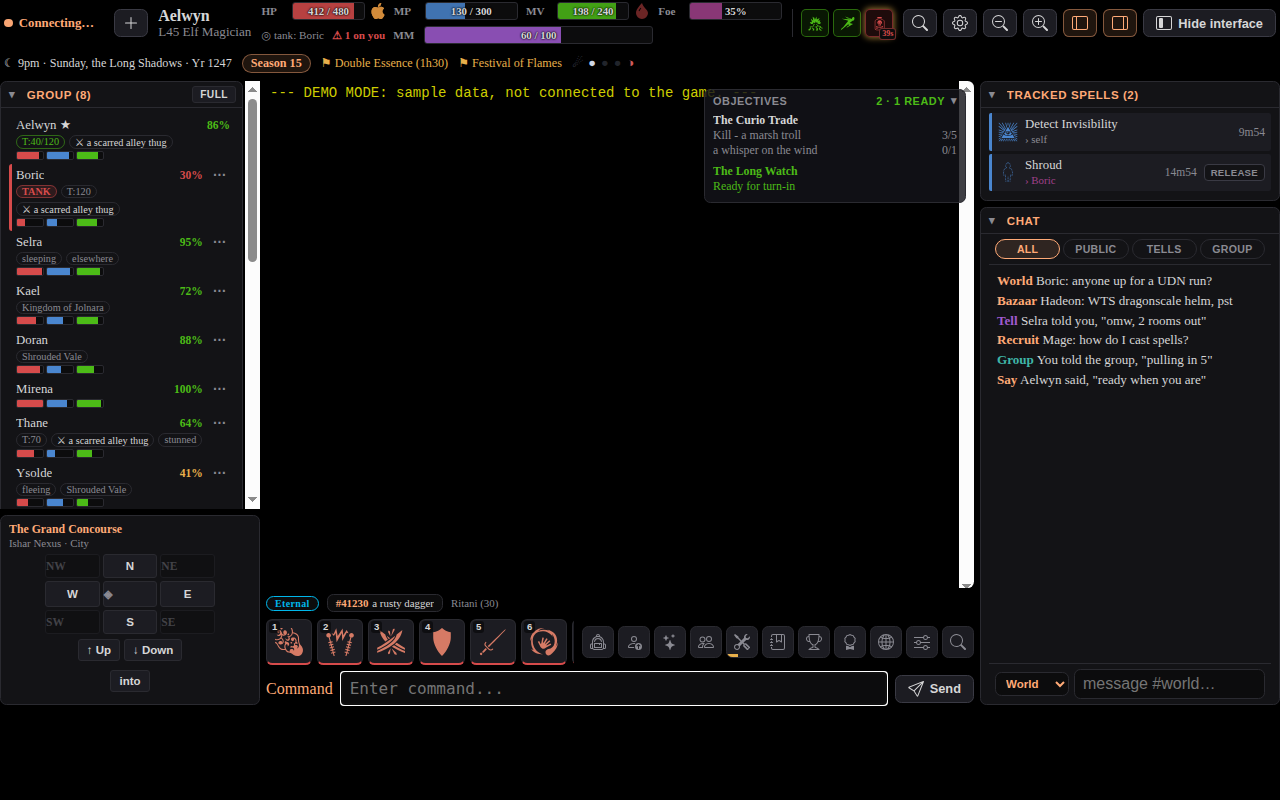
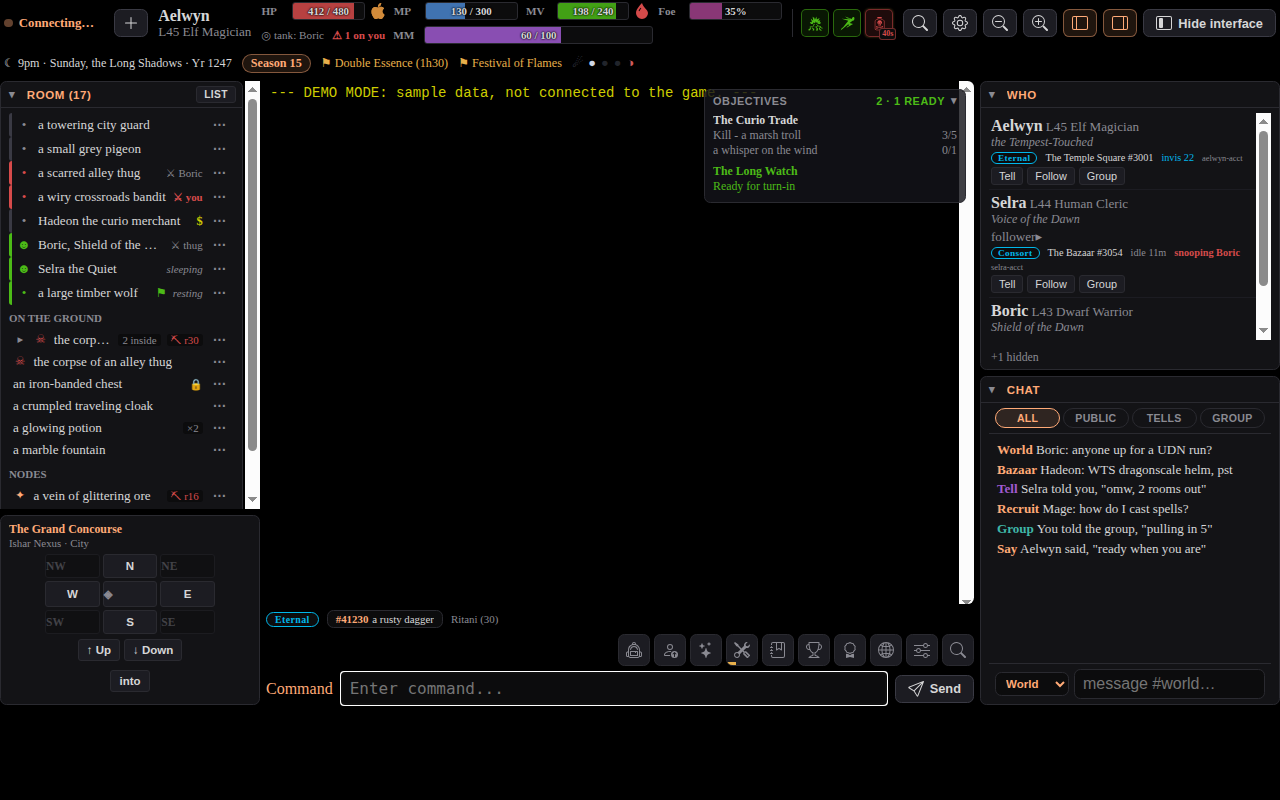
Admin profile v2: profile the persistent tier
Living with the admin re-tier showed the persistent panes are just as
mortal-shaped as the ambient chrome was: Group and Tracked Spells are
dead weight on an admin character, the skill hotbar is useless, and
the one surface staff actually monitor — Who with its staff columns —
sat behind Ctrl+F. Under hud-admin those three now die entirely
(panes, dock buttons, bar/combat hotkeys, and their keys-reference
group), and Who docks into the right column over Chat in the slot
Tracked vacates, wearing the standard collapsible header.

Placement goes through a new panelHome() seam in placePanels so the
profile owns homing in one place; retierAdmin re-homes, closes any
stranded group/tracked sheet, and resyncs launchers. Who's launcher
availability is form-factor-aware: hidden on desktop (the pane is
persistent — the overlay would open empty), kept on phones where the
dock/sheet is the only path. Player profile untouched: demo=1 renders
identically, and a game-side de-level restores it live.

Relates to #185

Claude-Session: https://claude.ai/code/session_01A8VeiBd24udqqTR62ShLSp

diff --git a/apps/connect/static/js/hud.js b/apps/connect/static/js/hud.js
@@ -204,7 +204,13 @@
           available: function () { return (S.skills || []).length > 0; } },
         { key: "who", title: "Who", hotkey: "f",
           render: function () { renderWho(); },
-          available: function () { return !!(S.who && S.who.players && S.who.players.length); } },
+          // Under the admin profile Who is a persistent right-column pane on
+          // desktop — the launcher would open an empty window (the panel
+          // node lives in the column). Phones keep the dock/sheet path.
+          available: function () {
+              return !!(S.who && S.who.players && S.who.players.length) &&
+                  (mqMobile.matches || adminLevel() < 21);
+          } },
         { key: "professions", title: "Professions", hotkey: "p",
           render: function () { renderProfessions(); },
           // The activity bar must stay reachable even in the (theoretical)
@@ -988,11 +994,21 @@
         return adminLevel() >= 21 &&
             !!(S.adminCaps.caps && S.adminCaps.caps[name]);
     }
-    // The admin profile of the ambient tier: swaps the mortal combat chrome
-    // (attack cluster, XP strip) for the admin strip via one root class.
+    // The admin profile: one root class swaps the ambient chrome (attack
+    // cluster, XP strip, hotbar → admin strip) and re-shapes the persistent
+    // tier — Group/Tracked die, Who docks into the right column
+    // (decisions.md 2026-07-28 + amendment).
     function retierAdmin() {
-        if (dom.app) dom.app.classList.toggle("hud-admin", adminLevel() >= 21);
-        if (dom.adminstrip) dom.adminstrip.hidden = adminLevel() < 21;
+        var admin = adminLevel() >= 21;
+        if (!dom.app) return;
+        dom.app.classList.toggle("hud-admin", admin);
+        if (dom.adminstrip) dom.adminstrip.hidden = !admin;
+        placePanels();
+        // A sheet whose panel the profile just removed would strand an
+        // empty surface; the launchers resync via availability.
+        if (admin && (sheetName === "group" || sheetName === "tracked")) setSheet(null);
+        renderWho();
+        updateMicro();
     }
     function applyWhoExtra(data) {
         var byName = null;
@@ -2528,8 +2544,16 @@
     // ------------------------------------------------------------------
     function renderWho() {
         var w = S.who;
-        if (!w || !w.players) { fill(dom.who, el("div", { class: "panel-empty", text: "—" })); return; }
         var admin = adminLevel() >= 21;
+        // As a persistent pane (admin profile) Who wears the standard
+        // collapsible header like its column neighbors; as an overlay the
+        // window chrome already titles it.
+        var head = admin ? panelHeader("who", "Who") : null;
+        if (!w || !w.players) {
+            fill(dom.who, [head, el("div", { class: "panel-empty", text: "—" })]);
+            return;
+        }
+        if (admin && isCollapsed("who")) { fill(dom.who, [head]); return; }
         var list = el("ul", { class: "who-list" });
         w.players.forEach(function (p) {
             var nm = firstWord(p.name);
@@ -2574,7 +2598,7 @@
                 ])
             ]));
         });
-        var kids = [list];
+        var kids = [head, list];
         if (w.hidden) kids.push(el("div", { class: "who-hidden", text: "+" + w.hidden + " hidden" }));
         fill(dom.who, kids);
     }
@@ -3624,6 +3648,9 @@
                 }
             }
             if (!S.connected) return;
+            // The admin profile has no bar or attack cluster; everything
+            // below is their combos, and hidden UI must not fire.
+            if (adminLevel() >= 21) return;
             // Combat keys — Alt+letter (the "act" modifier, like the bar's
             // Alt+digit). By e.code, not e.key: macOS Alt+letter yields
             // composed characters ("†"), Shift changes case.
@@ -3660,7 +3687,7 @@
     // from OVERLAYS, so an app's hotkey can never drift from its documentation.
     // A group's `hud: true` marks it dead while the interface is hidden.
     function keyHelp() {
-        return [
+        var groups = [
             {
                 title: "Action bar & combat", hud: true,
                 rows: [
@@ -3692,6 +3719,11 @@
                 ]
             }
         ];
+        // The admin profile has no bar/combat chrome; don't document dead keys.
+        if (adminLevel() >= 21) {
+            groups = groups.filter(function (g) { return g.title !== "Action bar & combat"; });
+        }
+        return groups;
     }
 
     // The full, scroll-bounded Abilities browser: search + type filter +
@@ -5767,6 +5799,7 @@
             case "inventory": case "components": renderInventory(); break;
             case "tracked": renderTracked(); break;
             case "chat": renderChat(); break;
+            case "who": renderWho(); break;
             default: renderAll();
         }
         api.onLayoutChange();
@@ -5775,12 +5808,19 @@
     // ------------------------------------------------------------------
     // Layout modes: panel placement, phone sheet, desktop columns
     // ------------------------------------------------------------------
+    // Desktop homes are profile-aware: the admin profile docks Who in the
+    // right column (the slot Tracked vacates); everything else keeps its
+    // PANEL_HOME. Phones are unaffected — every panel lives in the sheet.
+    function panelHome(name) {
+        if (name === "who" && adminLevel() >= 21) return "hud-right";
+        return PANEL_HOME[name];
+    }
     function placePanels() {
         var mobile = mqMobile.matches;
         PANELS.forEach(function (n) {
             var p = document.getElementById("panel-" + n);
             if (!p) return;
-            var home = mobile ? dom.sheetBody : document.getElementById(PANEL_HOME[n]);
+            var home = mobile ? dom.sheetBody : document.getElementById(panelHome(n));
             if (home && p.parentNode !== home) home.appendChild(p);
         });
         if (!mobile && sheetName) setSheet(null);
@@ -6049,7 +6089,9 @@
         });
 
         placePanels();
-        var onMq = function () { placePanels(); api.onLayoutChange(); };
+        // Availability is form-factor-sensitive under the admin profile
+        // (Who is a launcher on phones, a persistent pane on desktop).
+        var onMq = function () { placePanels(); updateMicro(); api.onLayoutChange(); };
         if (mqMobile.addEventListener) mqMobile.addEventListener("change", onMq);
         else if (mqMobile.addListener) mqMobile.addListener(onMq);
 

diff --git a/apps/connect/static/css/hud.css b/apps/connect/static/css/hud.css
@@ -1976,12 +1976,28 @@ button.v-tgt:hover { border-color: rgba(214, 75, 75, .8); }
 .char-achv-n b { color: var(--hud-gold); font-variant-numeric: tabular-nums; }
 
 /* ----- Admin tier (Admin.* staff feeds; decisions.md "Admin re-tier") ----- */
-/* The ambient tier's second profile: a level-21+ focused character (set from
-   Admin.Caps via the hud-admin root class) trades the mortal combat chrome —
-   attack cluster + XP strip — for the admin strip: rank pill, the live
-   `set o` target, current zone. Everything else admin lives in overlays. */
+/* The HUD's second profile: a level-21+ focused character (set from
+   Admin.Caps via the hud-admin root class). Ambient: the mortal combat
+   chrome — attack cluster, XP strip, hotbar — yields to the admin strip
+   (rank pill, live `set o` target, current zone). Persistent: Group and
+   Tracked Spells die, and Who docks into the right column over Chat
+   (placePanels re-homes it; the Ctrl+F launcher hides on desktop). */
 .hud-admin #hud-attack,
-.hud-admin #hud-xpstrip { display: none; }
+.hud-admin #hud-xpstrip,
+.hud-admin #hud-hotbar,
+.hud-admin #panel-group,
+.hud-admin #panel-tracked,
+.hud-admin #hud-dock button[data-panel="group"],
+.hud-admin #hud-dock button[data-panel="tracked"] { display: none; }
+
+/* Who as the right column's pinned pane — the slot Tracked vacates. */
+.hud-admin #hud-right #panel-who {
+    order: -1; flex: 0 1 auto; min-height: 0; max-height: 46%;
+    display: flex; flex-direction: column;
+}
+.hud-admin #hud-right #panel-who > .who-list {
+    flex: 1 1 auto; min-height: 0; overflow-y: auto;
+}
 
 #hud-adminstrip {
     flex: none; display: flex; align-items: center; gap: 8px;

diff --git a/docs/design/decisions.md b/docs/design/decisions.md
@@ -2417,3 +2417,30 @@ maintenance) use a **two-tap confirm** in the context menu (`confirm: true`
 arms "Confirm: X" on the first tap); `ban` only ever *prefills* the input —
 the duration is typed, never defaulted. Account names ride Admin.WhoExtra
 only for Eternal+ viewers; host/IP is never sent over GMCP.
+
+## 2026-07-28 — Admin profile v2: the persistent tier is profiled too
+
+**Problem.** The admin re-tier (earlier today) swapped only the ambient
+chrome. Living with it immediately showed the persistent panes are just as
+mortal-shaped: on an admin character Group and Tracked Spells are dead
+weight, the skill hotbar is useless, and the one staff surface an admin
+actually monitors — Who with its WhoExtra columns — sat behind Ctrl+F.
+
+**Decision.** The admin profile now covers both tiers:
+
+- **Killed under `hud-admin`:** `#hud-hotbar`, `#panel-group`,
+  `#panel-tracked`, their phone dock buttons, the bar/combat hotkeys
+  (Alt+digits, Alt+A/O/T, Alt+` — hidden UI must not fire), and the
+  "Action bar & combat" group in the keys reference.
+- **Promoted:** Who becomes the right column's pinned pane over Chat (the
+  slot Tracked vacates, same sizing rules), wearing the standard
+  collapsible `panelHeader`. Homing goes through `panelHome(name)` in
+  `placePanels` — the single seam for profile-driven placement. On desktop
+  the Ctrl+F launcher hides while the pane is persistent; phones keep the
+  dock/sheet path (availability is form-factor-aware).
+
+The player profile is untouched — `?demo=1` renders identically — and a
+game-side de-level restores it live via the same `Admin.Caps` trigger.
+
+**Notes.** Proofs refreshed in `docs/design/admin-hud/` (desktop re-tier,
+player regression eyeballed, 390px dock + who sheet).

diff --git a/docs/design/components.md b/docs/design/components.md
@@ -764,7 +764,13 @@ same conventions (radii, focus, coarse-pointer, reduced-motion). Highlights:
     `set o` target (`.adm-target`: `.adm-vnum` + `.adm-name`; `--denied`
     red vnum when un-permitted, `--empty` dashed when nothing carried; tap
     prefills `set o `), and the current-zone chip (`.adm-zone`). Replaces
-    `#hud-attack` + `#hud-xpstrip` under `.hud-admin`.
+    `#hud-attack` + `#hud-xpstrip` + `#hud-hotbar` under `.hud-admin`.
+  - **Persistent-tier profile** (decisions.md 2026-07-28 v2) — under
+    `.hud-admin`, Group and Tracked Spells (panes + dock buttons + combat
+    hotkeys + their keys-panel group) are gone, and **Who** is the right
+    column's pinned pane over Chat (`panelHome()` re-homes it; standard
+    collapsible header; the desktop Ctrl+F launcher hides while phones
+    keep the dock/sheet path).
   - **Who staff line** (`.who-adm` under `.who-main`) — rank pill, room
     name+vnum, idle, invis level (cyan), snoop edge (danger), account name
     (Eternal+ only). The name area becomes the admin context-menu opener

diff --git a/docs/design/admin-hud/README.md b/docs/design/admin-hud/README.md
@@ -14,9 +14,11 @@ chromium --headless=new --allow-file-access-from-files \
 # &open=<overlay key> clicks a launcher after load (dock button on phones)
 ```
 
-- `shot-desktop.png` — the admin re-tier: attack cluster + XP strip gone,
-  admin strip live (Eternal pill · `#41230 a rusty dagger` set-o chip ·
-  `Ritani (30)`), staff launchers in the micro-menu.
+- `shot-desktop.png` — the admin re-tier: attack cluster, XP strip, hotbar,
+  Group, and Tracked Spells gone; admin strip live (Eternal pill · `#41230
+  a rusty dagger` set-o chip · `Ritani (30)`); **Who pinned over Chat** in
+  the right column; staff launchers in the micro-menu (no Who launcher —
+  the pane is persistent on desktop).
 - `shot-who.png` — Who overlay with the WhoExtra staff lines (rank pills,
   room #vnum, idle, cyan invis, red snoop edge, account names).
 - `shot-zones.png` — Zones overlay: filter, live/unlive chips, regen meters,
